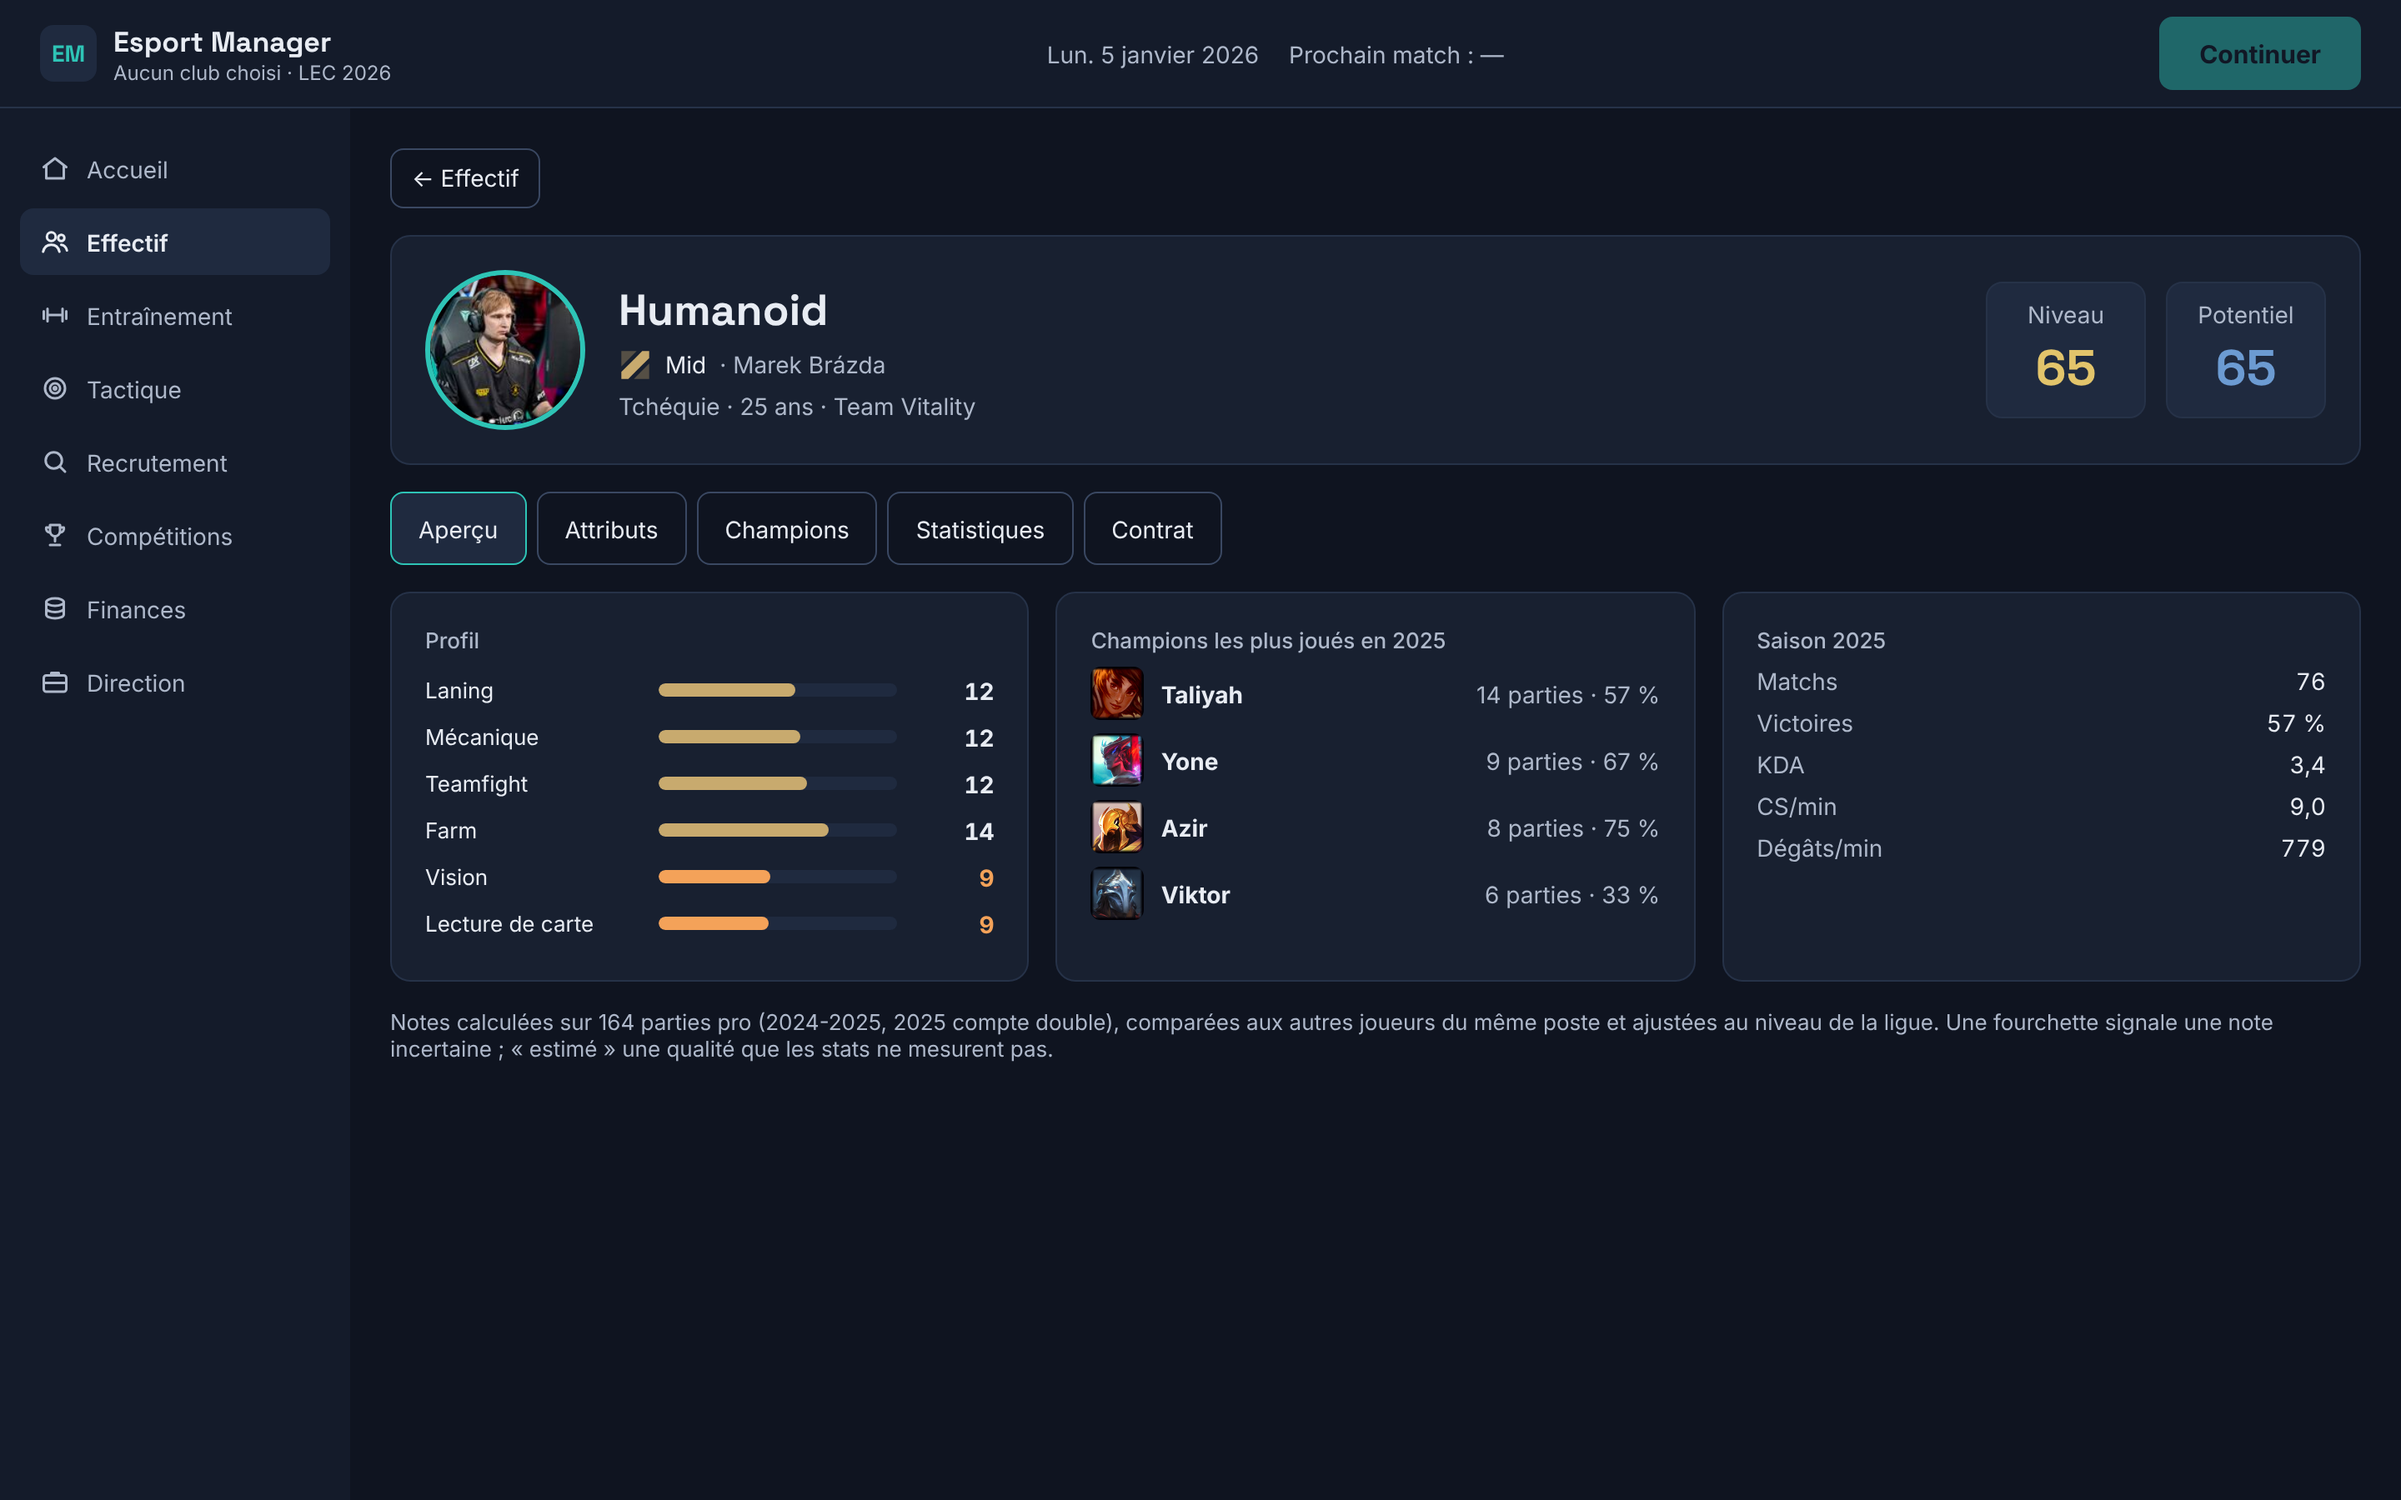
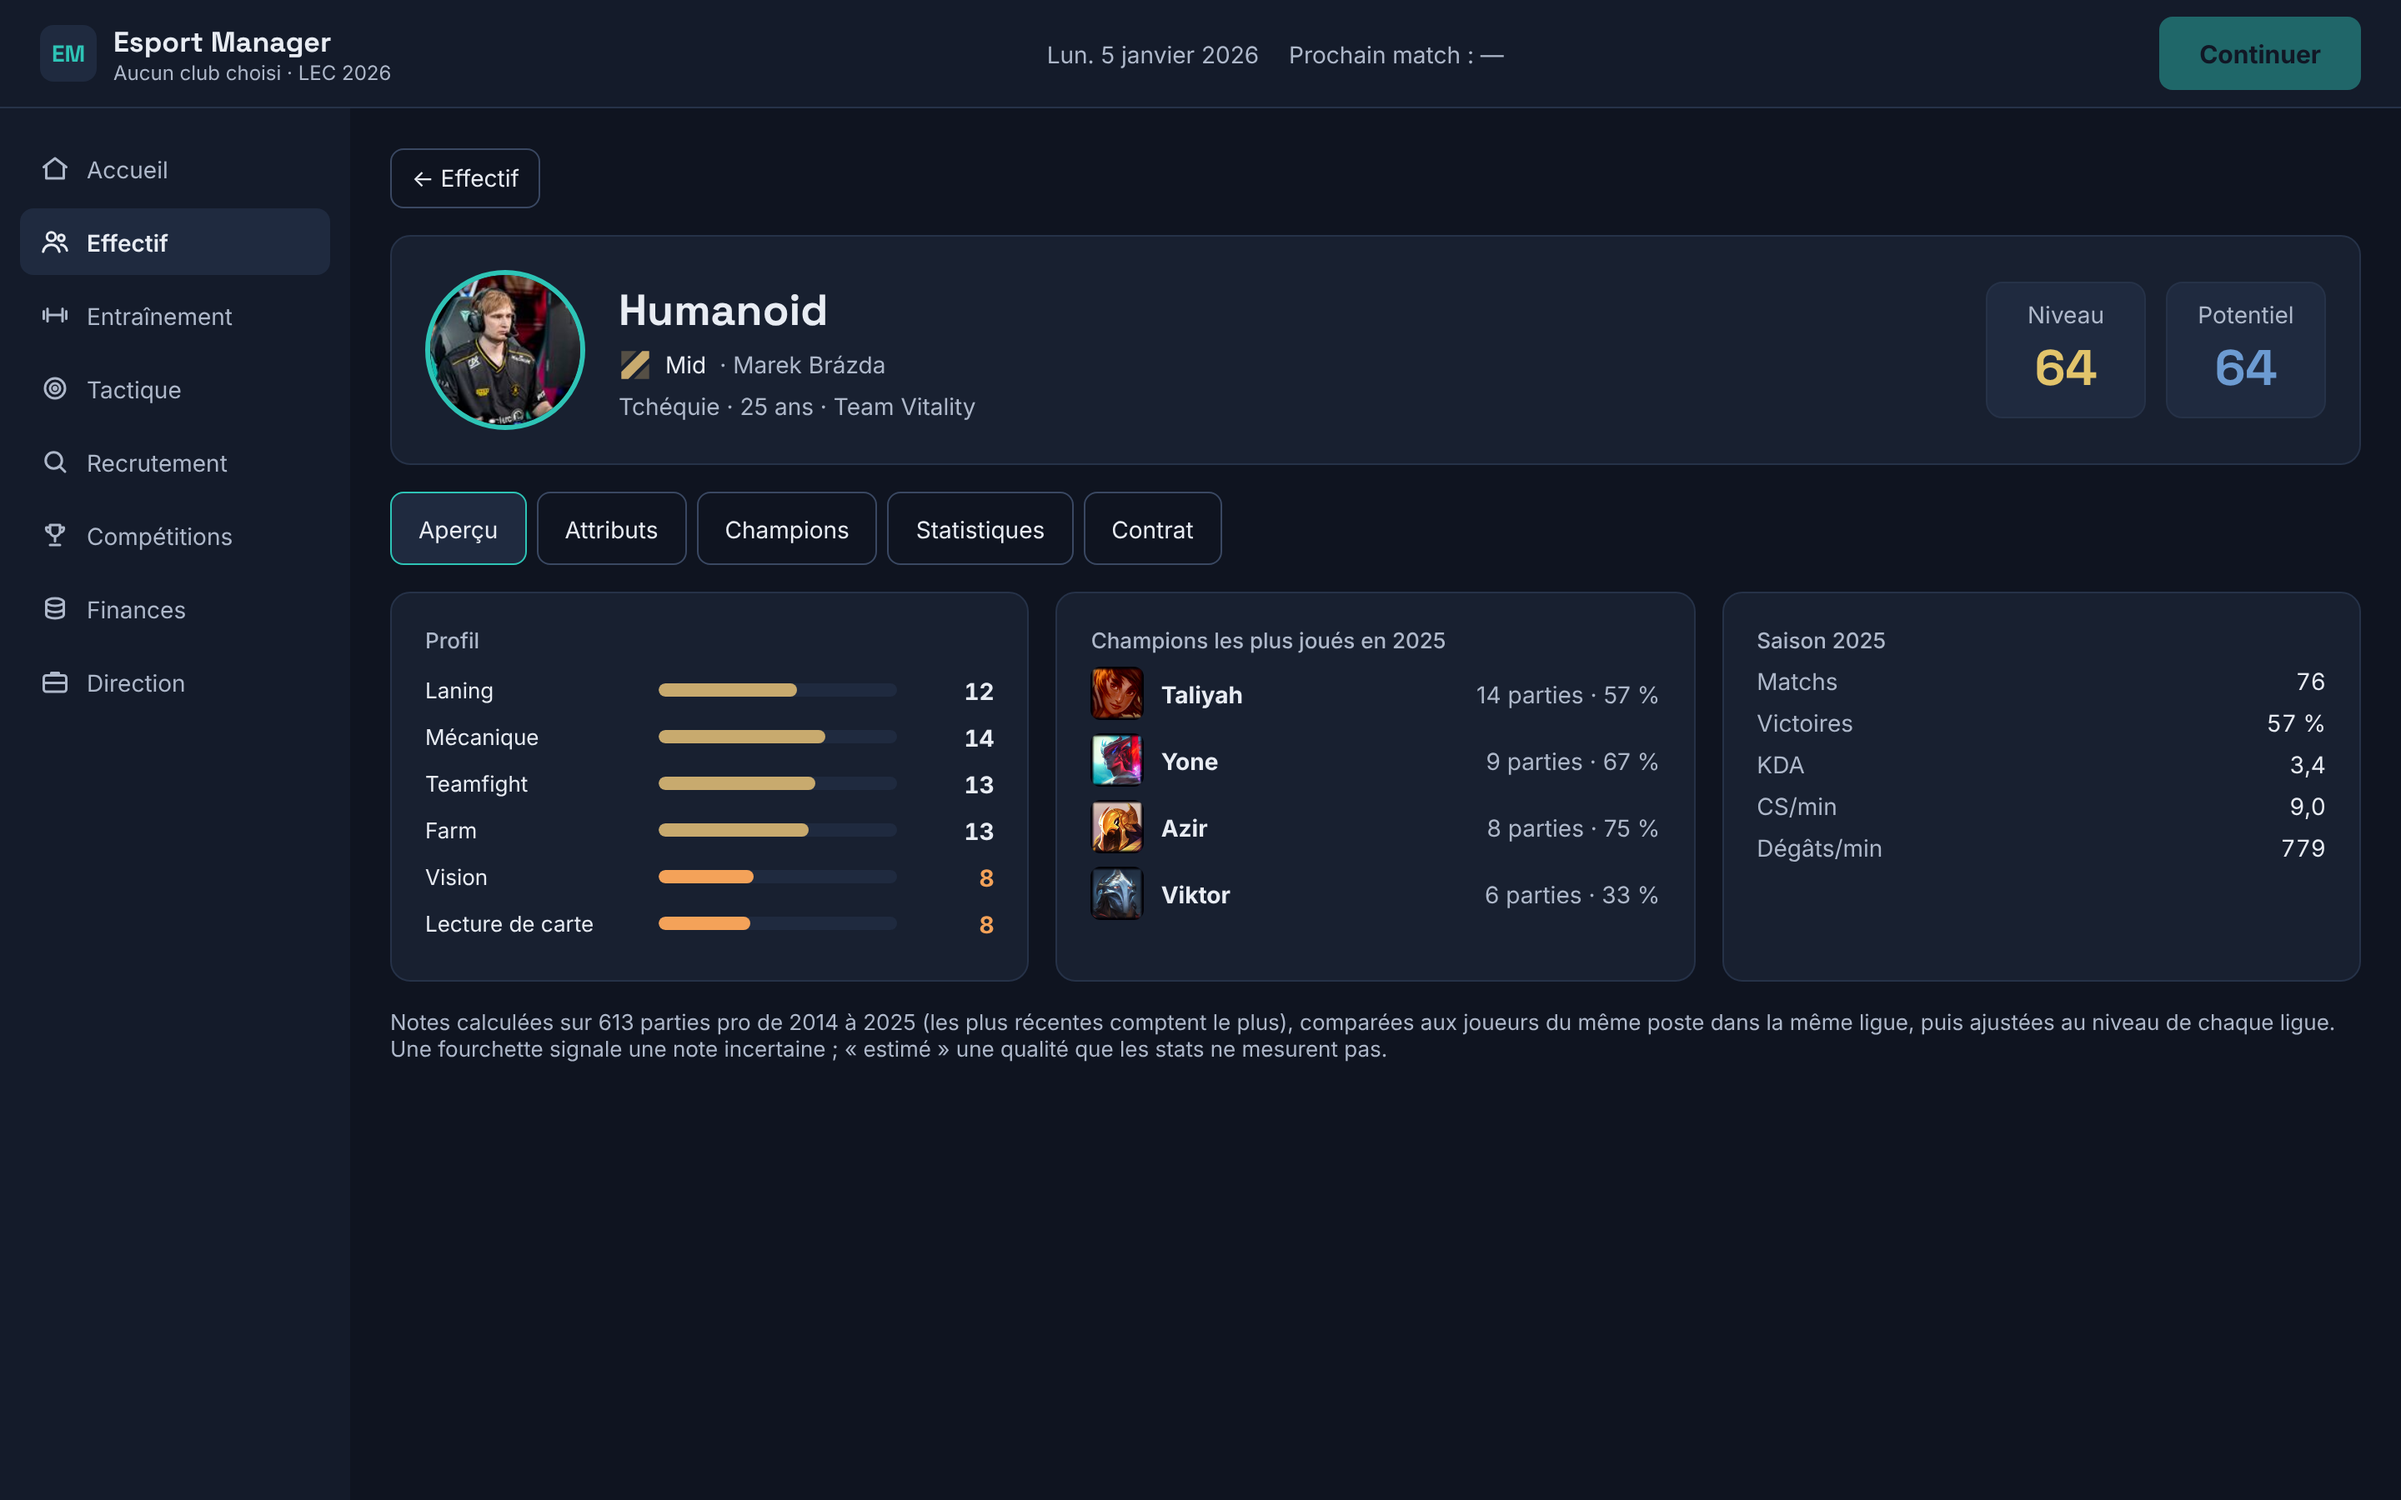
M2b : textes des notes (2014-2025) et démo régénérée
Claude-Session: https://claude.ai/code/session_017zyvBy1DnTLvjbDSzZzXfs

diff --git a/app/ui/src/screens/Player.tsx b/app/ui/src/screens/Player.tsx
@@ -112,11 +112,11 @@ function RatingNote({ p }: { p: PlayerDetail }) {
   const r = p.member.rating;
   if (!r) return null;
   if (r.source !== 'stats') {
-    return <p className="note">Aucune partie pro de ce joueur dans nos données 2024-2025 : ses notes sont estimées au niveau de sa ligue.</p>;
+    return <p className="note">Aucune partie pro de ce joueur dans nos données (2014-2025) : ses notes sont estimées au niveau de sa ligue.</p>;
   }
   return (
     <p className="note">
-      Notes calculées sur {r.games} parties pro (2024-2025, 2025 compte double), comparées aux autres joueurs du même poste et ajustées au niveau de la ligue.
+      Notes calculées sur {r.games} parties pro de 2014 à 2025 (les plus récentes comptent le plus), comparées aux joueurs du même poste dans la même ligue, puis ajustées au niveau de chaque ligue.
       Une fourchette signale une note incertaine ; « estimé » une qualité que les stats ne mesurent pas.
     </p>
   );

diff --git a/app/ui/src/screens/Squad.tsx b/app/ui/src/screens/Squad.tsx
@@ -78,7 +78,7 @@ export function Squad({ teamId: shownTeam, onTeamChange, onOpenPlayer }: Props) 
         {tab === 'joueurs' ? <PlayersTable players={players} onOpen={onOpenPlayer} /> : <StaffTable staff={staff} />}
       </section>
       <p className="note">
-        Effectif de départ et contrats : Leaguepedia. Stats : matchs pro 2025 (tous tournois). Niveau sur 100, calculé sur les parties 2024-2025 (Oracle's Elixir) : une fourchette signale une note incertaine. Clique sur un joueur pour sa fiche.
+        Effectif de départ et contrats : Leaguepedia. Stats : matchs pro 2025 (tous tournois). Niveau sur 100, calculé sur les parties pro 2014-2025 (Oracle's Elixir) et le niveau de chaque ligue : une fourchette signale une note incertaine. Clique sur un joueur pour sa fiche.
       </p>
     </>
   );
